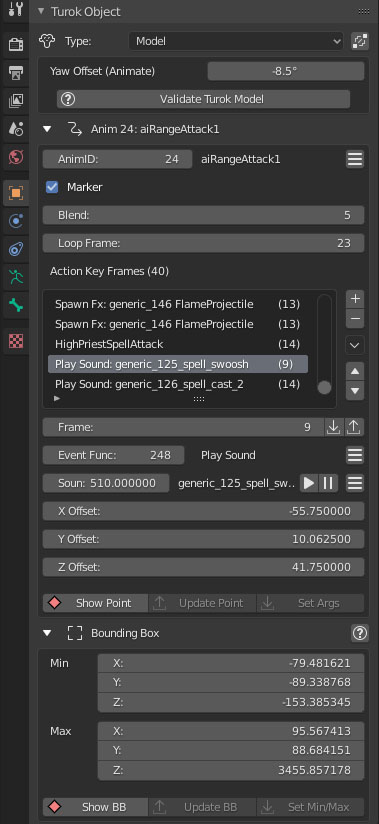
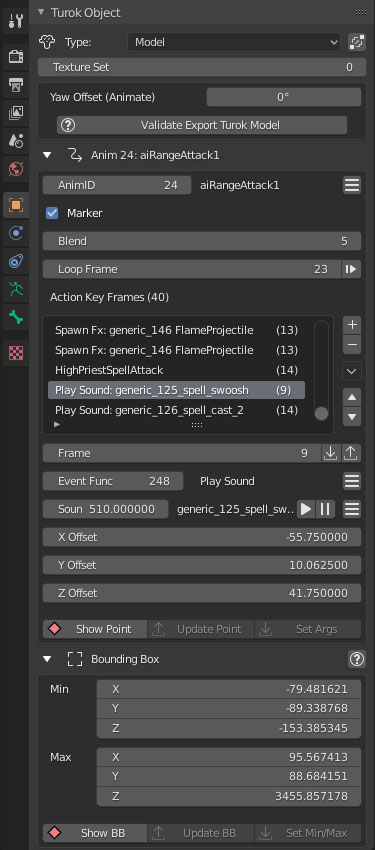
updated doc for v1.2.0

diff --git a/TurokBlender/doc.html b/TurokBlender/doc.html
@@ -13,13 +13,13 @@
 </script>
 <!-- End of Global site tag (gtag.js) - Google Analytics -->
 
-<title>TurokEX Tools v1.1.0 Documentation</title>
+<title>TurokEX Tools v1.2.0 Documentation</title>
 <link rel="stylesheet" type="text/css" href="../styles.css">
 <link rel="icon" href="images/favicon.png" sizes="16x16" type="image/png">
 <meta charset="UTF-8">
 <meta name="author" content="BehemothProgrammer">
 <meta name="viewport" content="width=device-width, initial-scale=1.0">
-<meta property="og:title" content="TurokEX Tools v1.1.0 Documentation" />
+<meta property="og:title" content="TurokEX Tools v1.2.0 Documentation" />
 <meta property="og:image" content="https://behemothprogrammer.github.io/TurokBlender/images/turokex_blender_main.jpg" />
 </head>
 
@@ -49,7 +49,7 @@
 
 <div id="install" class="main">
 	<div>
-	<p><center><h1>TurokEX Tools v1.1.0 Documentation</h1>By BehemothProgrammer</p>
+	<p><center><h1>TurokEX Tools v1.2.0 Documentation</h1>By BehemothProgrammer</p>
 	<img src="images/blurulr2.gif" style="width:450px;height:12px;"></center>
 	</div>
 	<div>
@@ -125,7 +125,11 @@
 						<li>Enter the file path you want to export the model to.
 							<ul>
 								<li><b>Export Materials</b> - Exports all used materials to .kmat files relative to the export directory.</li>
-								<li><b>Copy Textures</b> - Copies all used textures to their path relative to the export directory.</li>
+								<li><b>Copy Textures</b> - Copies all used textures to their path relative to the export directory.
+								<ul>
+									<li><b>Copy All Textures in Texture Sets</b> - Copies all textures in every used texture set.</li>
+								</ul>
+								</li>
 								<li><b>Export Anim</b> - Export all animations the model uses into a .anim filename with _anim added to the end of it.</li>
 								<li><b>Use Models Directory</b> - Exports materials, textures, and anims to parent folder of "models" + the sub folders after the models folder if it exists in the export path. Used for convenience when you save your model to the games models directory and you want everything else saved in the correct folders as Turok has it setup.</li>
 								<li><b>NLA Tracks</b> - Exported animations must be in the Armatures NLA Tracks</li>
@@ -169,17 +173,8 @@
 		<table>
 			<tr>
 				<td class="content">
-					<b>Type</b>: The Type of Turok Object this Blender Object is.
-					<ul>
-						<li><b>None</b> - Not a Turok Object. It's a standard Blender Object.</li>
-						<li><b>Model</b> - A Turok Model Object.</li>
-						<li><b>Map Staticmesh</b> - A Staticmesh that's part of the map (Do not assign manually)</li>
-						<li><b>Map Actor</b> - An Actor that's part of the map (Do not assign manually)</li>
-						<li><b>Map Sectors</b> - The map sectors mesh object(Do not assign manually)</li>
-						<li><b>Map Ceiling Sectors</b> - The map ceiling sectors mesh object(Do not assign manually)</li>
-						<li><b>Map Sun</b> - The map sun object (Do not assign manually)</li>
-						<li><b>Map Root</b> - The main map object (Do not assign manually)</li>
-					</ul>
+					<p><b>Type</b>: The Type of Turok Object this Blender Object is: None, Model, Map Staticmesh, Map Actor, Map Sectors, Map Ceiling Sectors, Map Sun, Map Root.</p>
+					<p><b>Texture Set</b>: Preview how the model will look with a texture set variant.</p>
 					<b>Yaw Offset</b>: Add Yaw Offset key frames to your animation to rotate the root bone in game. Yaw Offset key frames are used in AI Turn Animations. So this way the models root bone can rotate differently from the actual way the AI is turning towards in game.
 					<br>
 					<img src="images/blender_yawoffset_keyframes.jpg" style="max-width:100%;">
@@ -302,7 +297,6 @@
 					<p><b>[Node]Texture Extension</b>: Extend and Clip will use the Turok “clamp” wrapping. Repeat will use Turoks “repeat” wrapping.</p>
 					<p><b>Texture Sampler Index</b>: Assign this texture a sampler index. If you only have 1 texture which almost all Turok shaders only support then set this to 0.</p>
 					<p><b>Mirrored</b>: Overrides texture wrapping to "mirrored" which flips the texture on the x and y when it repeats.</p>
-					<p><b>Export To Custom Directory</b>: If you need to export this texture out to a custom directory other than the “textures/” directory you can turn this on and assign the Texture Directory.</p>
 				</td>
 				<td class="content">
 					<img src="images/blender_shader_panel.jpg">

diff --git a/TurokBlender/index.html b/TurokBlender/index.html
@@ -13,13 +13,13 @@
 </script>
 <!-- End of Global site tag (gtag.js) - Google Analytics -->
 
-<title>TurokEX Tools v1.1.0 for Blender 2.8x</title>
+<title>TurokEX Tools v1.2.0 for Blender 2.8x</title>
 <link rel="stylesheet" type="text/css" href="../styles.css">
 <link rel="icon" href="images/favicon.png" sizes="16x16" type="image/png">
 <meta charset="UTF-8">
 <meta name="author" content="BehemothProgrammer">
 <meta name="viewport" content="width=device-width, initial-scale=1.0">
-<meta property="og:title" content="TurokEX Tools v1.1.0 for Blender 2.8x" />
+<meta property="og:title" content="TurokEX Tools v1.2.0 for Blender 2.8x" />
 <meta property="og:image" content="https://behemothprogrammer.github.io/TurokBlender/images/turokex_blender_main.jpg" />
 <script type="text/javascript">
 function foo(response) {
@@ -54,7 +54,7 @@ document.getElementsByTagName('head')[0].appendChild(script);
 
 <div class="main">
 	<div>
-	<center><p><h1>TurokEX Tools v1.1.0 for Blender 2.8x</h1>By BehemothProgrammer</p>
+	<center><p><h1>TurokEX Tools v1.2.0 for Blender 2.8x</h1>By BehemothProgrammer</p>
 	<img src="images/blurulr2.gif" style="width:450px;height:12px;"></center>
 	</div>
 	<br>
@@ -82,36 +82,28 @@ document.getElementsByTagName('head')[0].appendChild(script);
 		</p>
 	</div>
 	<div class="helpSection">
-		<font size="4"><b>Version 1.1.0</b></font> <sup><i>(2019-12-18)</i></sup>
+		<font size="4"><b>Version 1.2.0</b></font> <sup><i>(2019-12-18)</i></sup>
 		<ul>
 			<li><b>Import</b>
 				<ul>
-					<li>Fixed issue with parsing names that started with numbers, brace brackets and equals.</li>
+					<li>You can now import .map files</li>
 				</ul>
 			</li>
 			<br>
 			<li><b>Export</b>
 				<ul>
-					<li>Model Validation check is now automatically done before exporting</li>
-					<li>Exporting model material indexes are now correct, fixing the problem with unused materials.</li>
-					<li>Now checks if material slots have a value of None</li>
+					<li>When exporting textures there is a new option to export all textures in all the textures sets that the model uses</li>
 				</ul>
 			</li>
 			<br>
 			<li><b>UI</b>
 				<ul>
-					<li>More QOL buttons in the Turok Tool Panel: button to create a box of the player scale, button to create a box of the weapon scale, button to create/setup the weapon camera which matches the TurokEX camera so you can easily see what it will look like in game (Activate the camera with the default key “0” on keypad).</li>
-					<li>All integer property values now have correct range limits based on their data type.</li>
-				</ul>
-			</li>
-			<br>
-			<li><b>Misc</b>
-				<ul>
-					<li>Model Validation: Only Animation Actions with a fake user will give warning/errors, checks for invalid characters in material names</li>
-					<li>The list of Turok Shaders is now in it's own def file.</li>
-					<li>File reading and writing is now slightly faster and more correct. There's less reads and writes. Ensures little endian byte order in all cases, and correct int sign.</li>
-					<li>Quaternions are no longer normalized when reading from file.</li>
-					<li>The full version history is now in the file “VersionHistory.txt” located in this add-on folder.</li>
+					<li>The Object Panel now has a Texture Variant option so you can preview how the model will look with different texture set variants</li>
+					<li>The Action Panel now has a button beside Loop Frame that sets it to the last frame</li>
+					<li>Removed shader texture node “Export To Custom Directory” option in the Shader Panel</li>
+					<li>The Weapon Camera now uses a second image for the games HUD so it's in front of the camera as it should be</li>
+					<li>The Blender Radius Point Object for key frame actions for the following events needed to be multiplied by 2 to show the actual range of melee attacks: 31 "MeleeVeryWimpy", 32 "MeleeBluntWimpy", 33 "MeleeBluntWeak", 34 "MeleeBluntMedium", 35 "MeleeBluntStrong", 36 "MeleeBluntVeryStrong", 37 "MeleeBluntHeavy", 38 "MeleeBluntVeryHeavy", 376 "MeleeAttack1", 377 "MeleeAttack2", 388 "MeleeAttack3". All other events that use radius remain the same (radius * 10.24)</li>
+					<li>Online doc added to bl_info. "wiki_url": "https://behemothprogrammer.github.io/TurokBlender/doc.html"</li>
 				</ul>
 			</li>
 		</ul>
